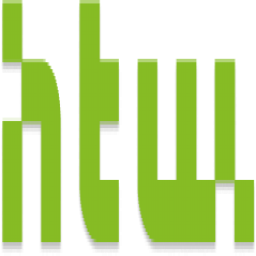
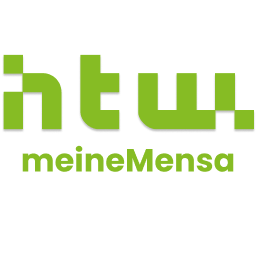
new images

diff --git a/public/sw.js b/public/sw.js
@@ -1,1 +1,1 @@
-if(!self.define){let e,s={};const n=(n,a)=>(n=new URL(n+".js",a).href,s[n]||new Promise((s=>{if("document"in self){const e=document.createElement("script");e.src=n,e.onload=s,document.head.appendChild(e)}else e=n,importScripts(n),s()})).then((()=>{let e=s[n];if(!e)throw new Error(`Module ${n} didn’t register its module`);return e})));self.define=(a,c)=>{const i=e||("document"in self?document.currentScript.src:"")||location.href;if(s[i])return;let t={};const r=e=>n(e,i),o={module:{uri:i},exports:t,require:r};s[i]=Promise.all(a.map((e=>o[e]||r(e)))).then((e=>(c(...e),t)))}}define(["./workbox-946f13af"],(function(e){"use strict";importScripts(),self.skipWaiting(),e.clientsClaim(),e.precacheAndRoute([{url:"/_next/static/GzfiZDpNhsjkNNkx77lYH/_buildManifest.js",revision:"aef6a393356e561fa72c580e05021fc9"},{url:"/_next/static/GzfiZDpNhsjkNNkx77lYH/_ssgManifest.js",revision:"b6652df95db52feb4daf4eca35380933"},{url:"/_next/static/chunks/framework-4556c45dd113b893.js",revision:"4556c45dd113b893"},{url:"/_next/static/chunks/main-e4de5d1a4535be6d.js",revision:"e4de5d1a4535be6d"},{url:"/_next/static/chunks/pages/404-3abf7f8d170fa24b.js",revision:"3abf7f8d170fa24b"},{url:"/_next/static/chunks/pages/_app-28da34136f73dad2.js",revision:"28da34136f73dad2"},{url:"/_next/static/chunks/pages/_error-a4ba2246ff8fb532.js",revision:"a4ba2246ff8fb532"},{url:"/_next/static/chunks/pages/about-3c0065ed1bc6cc63.js",revision:"3c0065ed1bc6cc63"},{url:"/_next/static/chunks/pages/index-854cfa6f461d644a.js",revision:"854cfa6f461d644a"},{url:"/_next/static/chunks/pages/mensen-be062d36d9d9b7be.js",revision:"be062d36d9d9b7be"},{url:"/_next/static/chunks/polyfills-c67a75d1b6f99dc8.js",revision:"837c0df77fd5009c9e46d446188ecfd0"},{url:"/_next/static/chunks/webpack-69bfa6990bb9e155.js",revision:"69bfa6990bb9e155"},{url:"/_next/static/css/95734cfd4d077383.css",revision:"95734cfd4d077383"},{url:"/_next/static/css/b73b9a72cc6dbac0.css",revision:"b73b9a72cc6dbac0"},{url:"/_next/static/css/cbdc27ed230163ea.css",revision:"cbdc27ed230163ea"},{url:"/favicon.ico",revision:"c30c7d42707a47a3f4591831641e50dc"},{url:"/icon-192x192.png",revision:"1dc1df7bb77c43b8c3e62acc5e9d35ce"},{url:"/icon-256x256.png",revision:"be7aeff0c3c7c4baf068e23cb03710bc"},{url:"/icon-384x384.png",revision:"969c75569857babb3dc835d80c209909"},{url:"/icon-512x512.png",revision:"ed3e66ba8f85c40024149231aa862055"},{url:"/logoHTW.jpeg",revision:"a1c7ca637598befdfd41e230cd341773"},{url:"/manifest.json",revision:"dec394a1e64def6377883e67bff6a901"},{url:"/maskable.png",revision:"497baff2499df67280019e6f653b67e7"},{url:"/vercel.svg",revision:"26bf2d0adaf1028a4d4c6ee77005e819"}],{ignoreURLParametersMatching:[]}),e.cleanupOutdatedCaches(),e.registerRoute("/",new e.NetworkFirst({cacheName:"start-url",plugins:[{cacheWillUpdate:async({request:e,response:s,event:n,state:a})=>s&&"opaqueredirect"===s.type?new Response(s.body,{status:200,statusText:"OK",headers:s.headers}):s}]}),"GET"),e.registerRoute(/^https:\/\/fonts\.(?:gstatic)\.com\/.*/i,new e.CacheFirst({cacheName:"google-fonts-webfonts",plugins:[new e.ExpirationPlugin({maxEntries:4,maxAgeSeconds:31536e3})]}),"GET"),e.registerRoute(/^https:\/\/fonts\.(?:googleapis)\.com\/.*/i,new e.StaleWhileRevalidate({cacheName:"google-fonts-stylesheets",plugins:[new e.ExpirationPlugin({maxEntries:4,maxAgeSeconds:604800})]}),"GET"),e.registerRoute(/\.(?:eot|otf|ttc|ttf|woff|woff2|font.css)$/i,new e.StaleWhileRevalidate({cacheName:"static-font-assets",plugins:[new e.ExpirationPlugin({maxEntries:4,maxAgeSeconds:604800})]}),"GET"),e.registerRoute(/\.(?:jpg|jpeg|gif|png|svg|ico|webp)$/i,new e.StaleWhileRevalidate({cacheName:"static-image-assets",plugins:[new e.ExpirationPlugin({maxEntries:64,maxAgeSeconds:86400})]}),"GET"),e.registerRoute(/\/_next\/image\?url=.+$/i,new e.StaleWhileRevalidate({cacheName:"next-image",plugins:[new e.ExpirationPlugin({maxEntries:64,maxAgeSeconds:86400})]}),"GET"),e.registerRoute(/\.(?:mp3|wav|ogg)$/i,new e.CacheFirst({cacheName:"static-audio-assets",plugins:[new e.RangeRequestsPlugin,new e.ExpirationPlugin({maxEntries:32,maxAgeSeconds:86400})]}),"GET"),e.registerRoute(/\.(?:mp4)$/i,new e.CacheFirst({cacheName:"static-video-assets",plugins:[new e.RangeRequestsPlugin,new e.ExpirationPlugin({maxEntries:32,maxAgeSeconds:86400})]}),"GET"),e.registerRoute(/\.(?:js)$/i,new e.StaleWhileRevalidate({cacheName:"static-js-assets",plugins:[new e.ExpirationPlugin({maxEntries:32,maxAgeSeconds:86400})]}),"GET"),e.registerRoute(/\.(?:css|less)$/i,new e.StaleWhileRevalidate({cacheName:"static-style-assets",plugins:[new e.ExpirationPlugin({maxEntries:32,maxAgeSeconds:86400})]}),"GET"),e.registerRoute(/\/_next\/data\/.+\/.+\.json$/i,new e.StaleWhileRevalidate({cacheName:"next-data",plugins:[new e.ExpirationPlugin({maxEntries:32,maxAgeSeconds:86400})]}),"GET"),e.registerRoute(/\.(?:json|xml|csv)$/i,new e.NetworkFirst({cacheName:"static-data-assets",plugins:[new e.ExpirationPlugin({maxEntries:32,maxAgeSeconds:86400})]}),"GET"),e.registerRoute((({url:e})=>{if(!(self.origin===e.origin))return!1;const s=e.pathname;return!s.startsWith("/api/auth/")&&!!s.startsWith("/api/")}),new e.NetworkFirst({cacheName:"apis",networkTimeoutSeconds:10,plugins:[new e.ExpirationPlugin({maxEntries:16,maxAgeSeconds:86400})]}),"GET"),e.registerRoute((({url:e})=>{if(!(self.origin===e.origin))return!1;return!e.pathname.startsWith("/api/")}),new e.NetworkFirst({cacheName:"others",networkTimeoutSeconds:10,plugins:[new e.ExpirationPlugin({maxEntries:32,maxAgeSeconds:86400})]}),"GET"),e.registerRoute((({url:e})=>!(self.origin===e.origin)),new e.NetworkFirst({cacheName:"cross-origin",networkTimeoutSeconds:10,plugins:[new e.ExpirationPlugin({maxEntries:32,maxAgeSeconds:3600})]}),"GET")}));
+if(!self.define){let e,s={};const n=(n,a)=>(n=new URL(n+".js",a).href,s[n]||new Promise((s=>{if("document"in self){const e=document.createElement("script");e.src=n,e.onload=s,document.head.appendChild(e)}else e=n,importScripts(n),s()})).then((()=>{let e=s[n];if(!e)throw new Error(`Module ${n} didn’t register its module`);return e})));self.define=(a,c)=>{const i=e||("document"in self?document.currentScript.src:"")||location.href;if(s[i])return;let t={};const r=e=>n(e,i),o={module:{uri:i},exports:t,require:r};s[i]=Promise.all(a.map((e=>o[e]||r(e)))).then((e=>(c(...e),t)))}}define(["./workbox-946f13af"],(function(e){"use strict";importScripts(),self.skipWaiting(),e.clientsClaim(),e.precacheAndRoute([{url:"/_next/static/chunks/framework-4556c45dd113b893.js",revision:"4556c45dd113b893"},{url:"/_next/static/chunks/main-e4de5d1a4535be6d.js",revision:"e4de5d1a4535be6d"},{url:"/_next/static/chunks/pages/404-3abf7f8d170fa24b.js",revision:"3abf7f8d170fa24b"},{url:"/_next/static/chunks/pages/_app-55515bbaa0429bc3.js",revision:"55515bbaa0429bc3"},{url:"/_next/static/chunks/pages/_error-a4ba2246ff8fb532.js",revision:"a4ba2246ff8fb532"},{url:"/_next/static/chunks/pages/about-3c0065ed1bc6cc63.js",revision:"3c0065ed1bc6cc63"},{url:"/_next/static/chunks/pages/index-854cfa6f461d644a.js",revision:"854cfa6f461d644a"},{url:"/_next/static/chunks/pages/mensen-be062d36d9d9b7be.js",revision:"be062d36d9d9b7be"},{url:"/_next/static/chunks/polyfills-c67a75d1b6f99dc8.js",revision:"837c0df77fd5009c9e46d446188ecfd0"},{url:"/_next/static/chunks/webpack-69bfa6990bb9e155.js",revision:"69bfa6990bb9e155"},{url:"/_next/static/css/95734cfd4d077383.css",revision:"95734cfd4d077383"},{url:"/_next/static/css/b73b9a72cc6dbac0.css",revision:"b73b9a72cc6dbac0"},{url:"/_next/static/css/cbdc27ed230163ea.css",revision:"cbdc27ed230163ea"},{url:"/_next/static/i1ZqCi4bgGo6CY32r0UHm/_buildManifest.js",revision:"aef6a393356e561fa72c580e05021fc9"},{url:"/_next/static/i1ZqCi4bgGo6CY32r0UHm/_ssgManifest.js",revision:"b6652df95db52feb4daf4eca35380933"},{url:"/favicon.ico",revision:"c30c7d42707a47a3f4591831641e50dc"},{url:"/htw-logo.svg",revision:"758853421520ee2f8ec21743e56ded4a"},{url:"/icon-192x192.png",revision:"1cfc34ac7762d67ffb8a816ebc60f978"},{url:"/icon-256x256.png",revision:"a82bed31d2714a1ecfae90ef3feca398"},{url:"/icon-384x384.png",revision:"9edba8b66a3f1d632fba380e7ee06477"},{url:"/icon-512x512.png",revision:"eaf0728e377862584d11b74a0e12189e"},{url:"/logoHTW.jpeg",revision:"a1c7ca637598befdfd41e230cd341773"},{url:"/manifest.json",revision:"dec394a1e64def6377883e67bff6a901"},{url:"/maskable.png",revision:"29c106bf85d6876f32345bfd427c3c77"},{url:"/vercel.svg",revision:"26bf2d0adaf1028a4d4c6ee77005e819"}],{ignoreURLParametersMatching:[]}),e.cleanupOutdatedCaches(),e.registerRoute("/",new e.NetworkFirst({cacheName:"start-url",plugins:[{cacheWillUpdate:async({request:e,response:s,event:n,state:a})=>s&&"opaqueredirect"===s.type?new Response(s.body,{status:200,statusText:"OK",headers:s.headers}):s}]}),"GET"),e.registerRoute(/^https:\/\/fonts\.(?:gstatic)\.com\/.*/i,new e.CacheFirst({cacheName:"google-fonts-webfonts",plugins:[new e.ExpirationPlugin({maxEntries:4,maxAgeSeconds:31536e3})]}),"GET"),e.registerRoute(/^https:\/\/fonts\.(?:googleapis)\.com\/.*/i,new e.StaleWhileRevalidate({cacheName:"google-fonts-stylesheets",plugins:[new e.ExpirationPlugin({maxEntries:4,maxAgeSeconds:604800})]}),"GET"),e.registerRoute(/\.(?:eot|otf|ttc|ttf|woff|woff2|font.css)$/i,new e.StaleWhileRevalidate({cacheName:"static-font-assets",plugins:[new e.ExpirationPlugin({maxEntries:4,maxAgeSeconds:604800})]}),"GET"),e.registerRoute(/\.(?:jpg|jpeg|gif|png|svg|ico|webp)$/i,new e.StaleWhileRevalidate({cacheName:"static-image-assets",plugins:[new e.ExpirationPlugin({maxEntries:64,maxAgeSeconds:86400})]}),"GET"),e.registerRoute(/\/_next\/image\?url=.+$/i,new e.StaleWhileRevalidate({cacheName:"next-image",plugins:[new e.ExpirationPlugin({maxEntries:64,maxAgeSeconds:86400})]}),"GET"),e.registerRoute(/\.(?:mp3|wav|ogg)$/i,new e.CacheFirst({cacheName:"static-audio-assets",plugins:[new e.RangeRequestsPlugin,new e.ExpirationPlugin({maxEntries:32,maxAgeSeconds:86400})]}),"GET"),e.registerRoute(/\.(?:mp4)$/i,new e.CacheFirst({cacheName:"static-video-assets",plugins:[new e.RangeRequestsPlugin,new e.ExpirationPlugin({maxEntries:32,maxAgeSeconds:86400})]}),"GET"),e.registerRoute(/\.(?:js)$/i,new e.StaleWhileRevalidate({cacheName:"static-js-assets",plugins:[new e.ExpirationPlugin({maxEntries:32,maxAgeSeconds:86400})]}),"GET"),e.registerRoute(/\.(?:css|less)$/i,new e.StaleWhileRevalidate({cacheName:"static-style-assets",plugins:[new e.ExpirationPlugin({maxEntries:32,maxAgeSeconds:86400})]}),"GET"),e.registerRoute(/\/_next\/data\/.+\/.+\.json$/i,new e.StaleWhileRevalidate({cacheName:"next-data",plugins:[new e.ExpirationPlugin({maxEntries:32,maxAgeSeconds:86400})]}),"GET"),e.registerRoute(/\.(?:json|xml|csv)$/i,new e.NetworkFirst({cacheName:"static-data-assets",plugins:[new e.ExpirationPlugin({maxEntries:32,maxAgeSeconds:86400})]}),"GET"),e.registerRoute((({url:e})=>{if(!(self.origin===e.origin))return!1;const s=e.pathname;return!s.startsWith("/api/auth/")&&!!s.startsWith("/api/")}),new e.NetworkFirst({cacheName:"apis",networkTimeoutSeconds:10,plugins:[new e.ExpirationPlugin({maxEntries:16,maxAgeSeconds:86400})]}),"GET"),e.registerRoute((({url:e})=>{if(!(self.origin===e.origin))return!1;return!e.pathname.startsWith("/api/")}),new e.NetworkFirst({cacheName:"others",networkTimeoutSeconds:10,plugins:[new e.ExpirationPlugin({maxEntries:32,maxAgeSeconds:86400})]}),"GET"),e.registerRoute((({url:e})=>!(self.origin===e.origin)),new e.NetworkFirst({cacheName:"cross-origin",networkTimeoutSeconds:10,plugins:[new e.ExpirationPlugin({maxEntries:32,maxAgeSeconds:3600})]}),"GET")}));

diff --git a/comps/Navbar.js b/comps/Navbar.js
@@ -6,7 +6,7 @@ const Navbar = () => {
     return ( 
         <nav >
             <div className="logo">
-                <Image src="/logoHTW.jpeg" width={128} height={77} />
+                <Image src="/htw-logo.svg" width={128} height={77} />
             </div>
 
         <Link href='/'><a>Home</a></Link>
